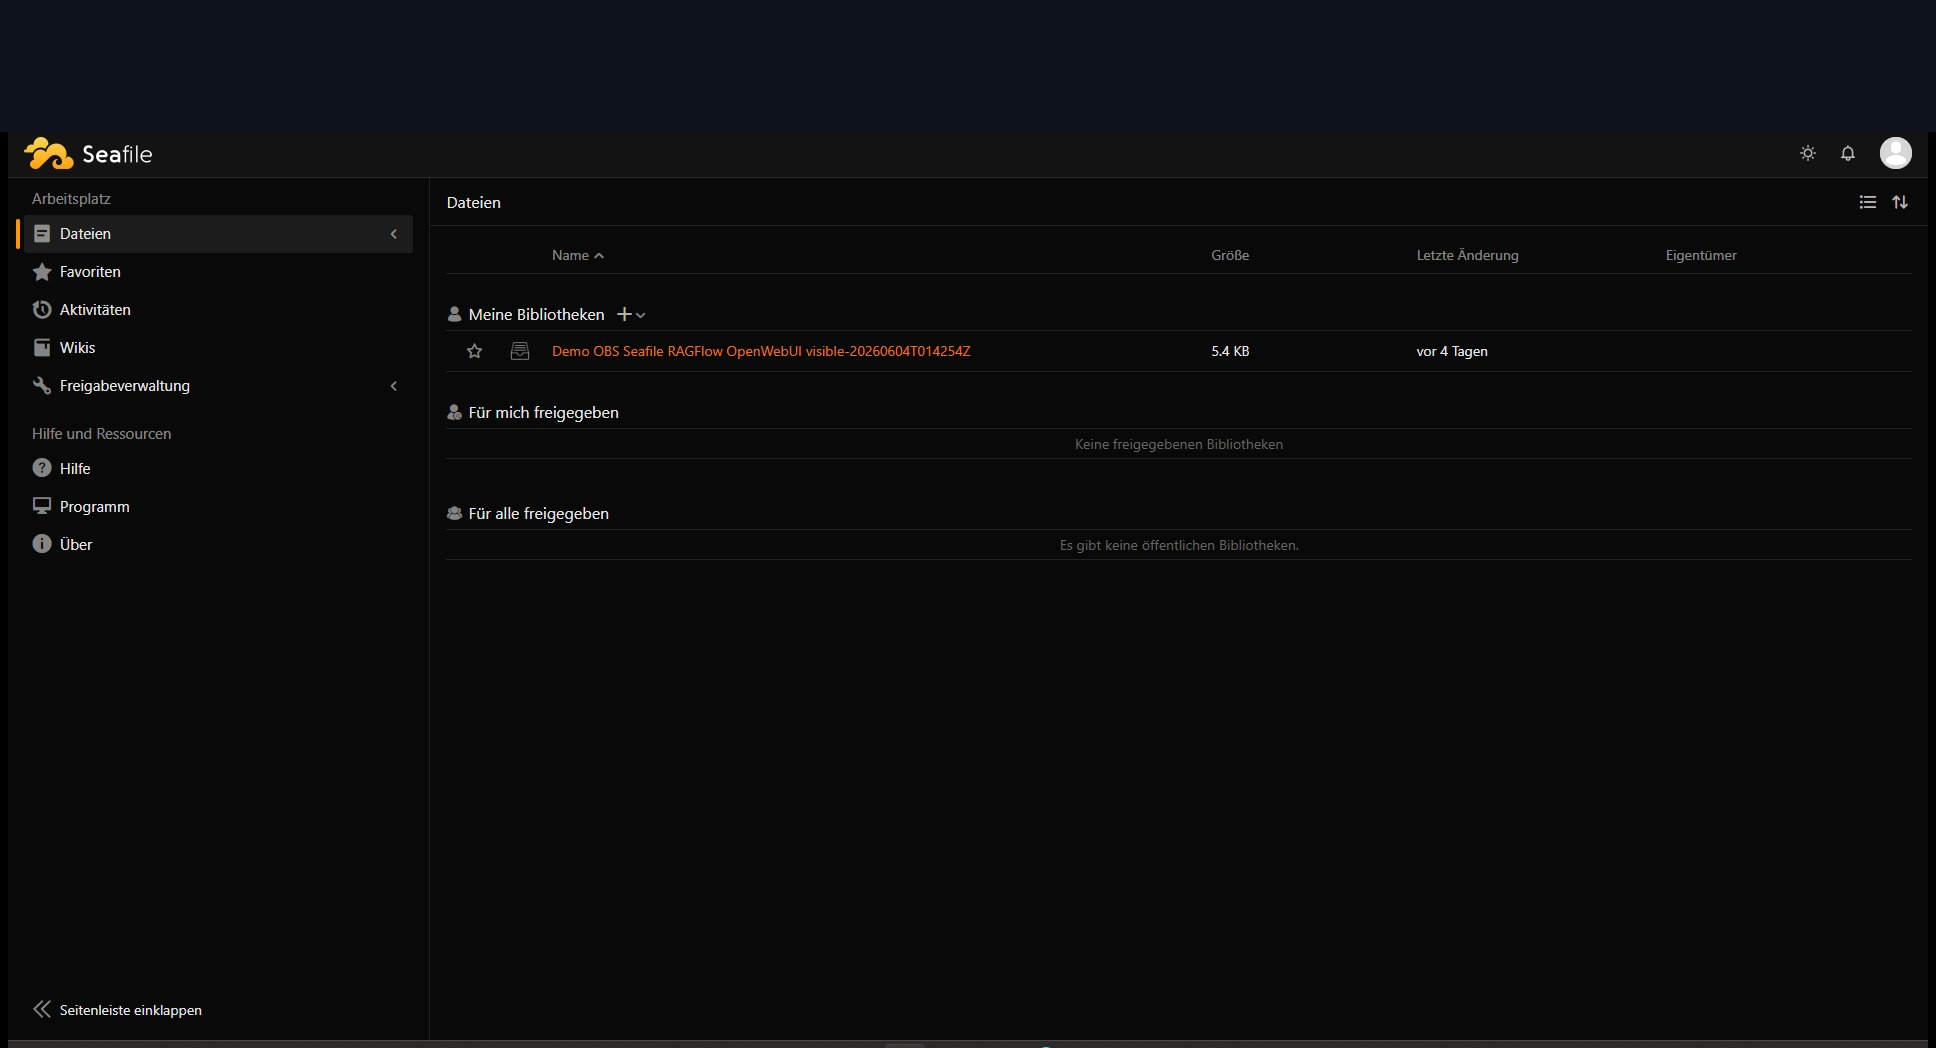
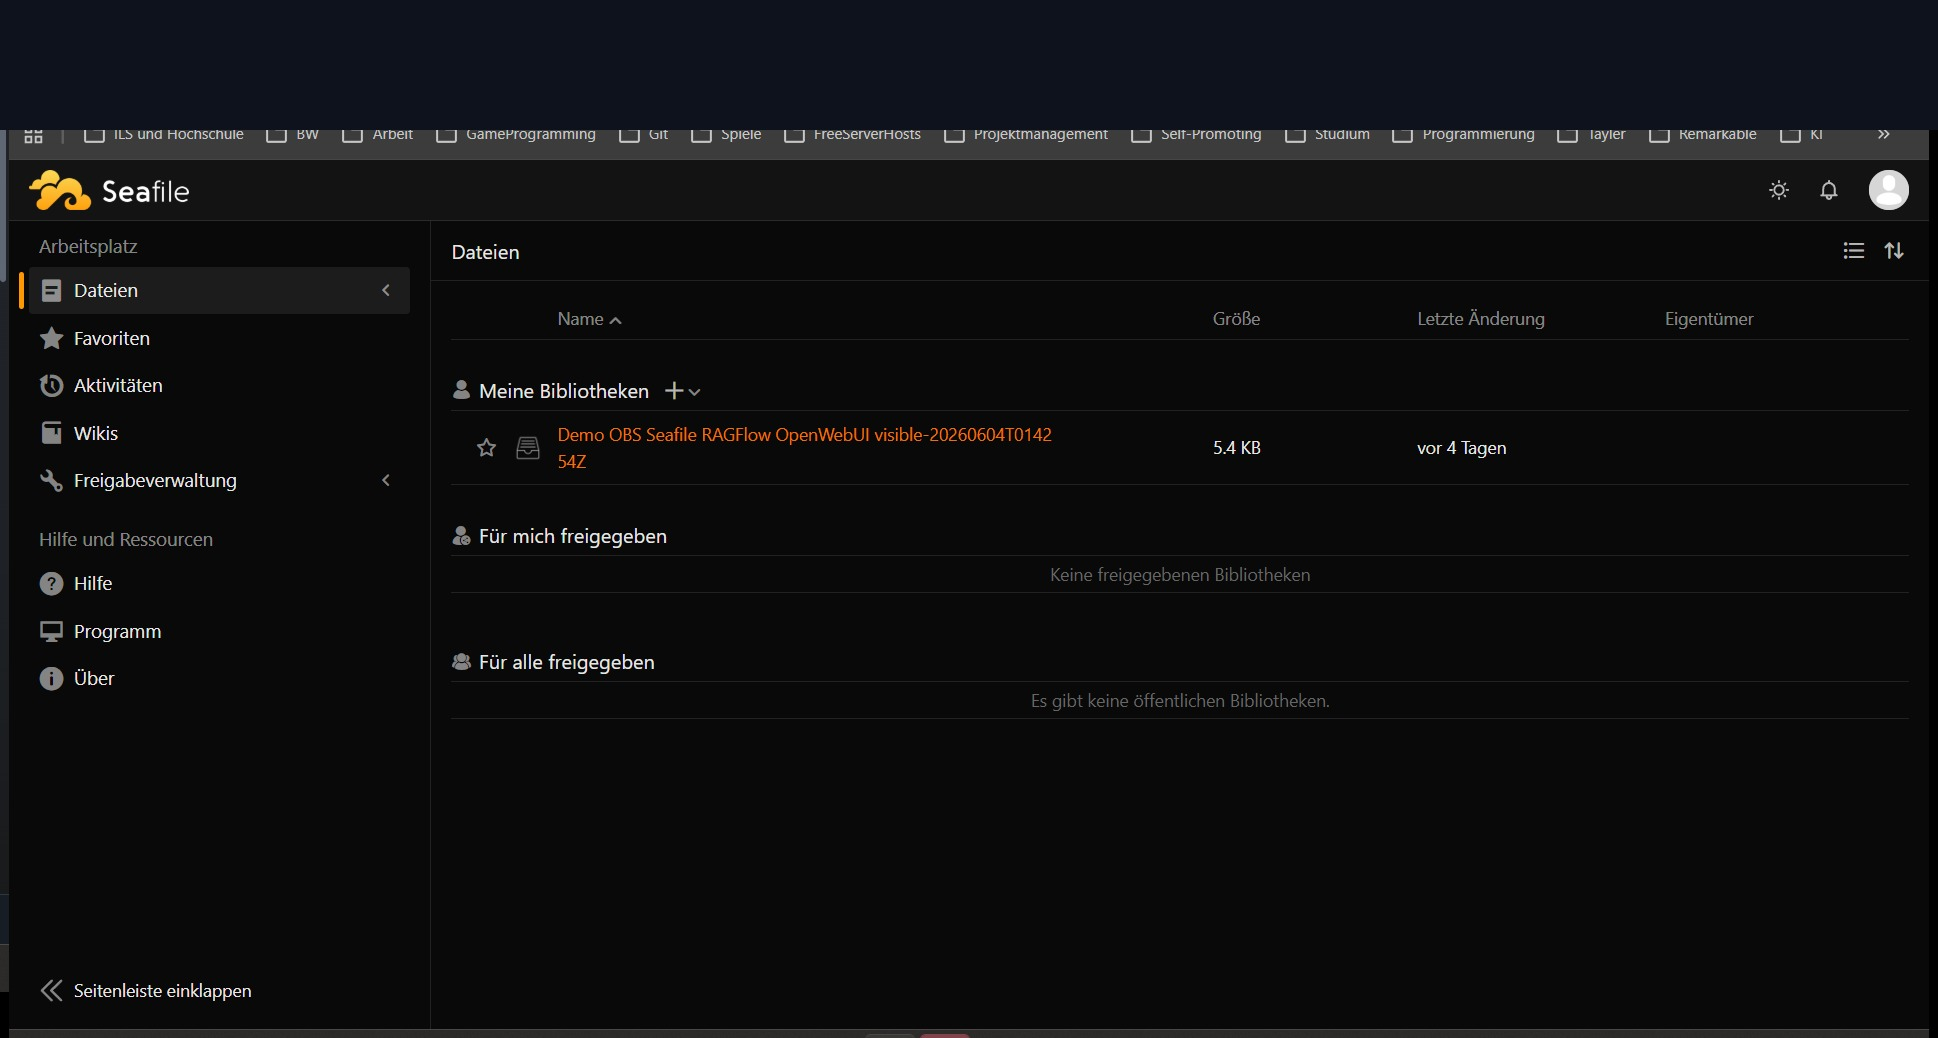
Update real Chrome demo with preview and original checks

diff --git a/scripts/record_real_chrome_demo.py b/scripts/record_real_chrome_demo.py
@@ -152,6 +152,7 @@ class Scene:
     wait_after_action: float = 2.5
     click_input: bool = False
     prompt: str | None = None
+    dismiss_chrome_popups: bool = False
     highlight: tuple[float, float, float, float] | None = None
     pointer: tuple[float, float] | None = None
 
@@ -372,6 +373,38 @@ def activate_and_maximize(window: WindowInfo) -> WindowInfo:
     return refreshed
 
 
+def foreground_hwnd() -> int:
+    ensure_windows()
+    return int(USER32.GetForegroundWindow())
+
+
+def safe_action_name(value: str) -> str:
+    cleaned = "".join(char if char.isalnum() else "-" for char in value.lower())
+    return "-".join(part for part in cleaned.split("-") if part)[:72] or "ui-action"
+
+
+def save_pre_action_screenshot(window: WindowInfo, safety_dir: Path, action: str) -> Path:
+    safety_dir.mkdir(parents=True, exist_ok=True)
+    stamp = datetime.now().strftime("%Y%m%dT%H%M%S%f")
+    path = safety_dir / f"{stamp}-{safe_action_name(action)}.png"
+    ImageGrab.grab(all_screens=True).save(path)
+    foreground = foreground_hwnd()
+    if foreground != window.hwnd:
+        raise RuntimeError(
+            "UI-Aktion abgebrochen: Chrome ist nicht im Vordergrund. "
+            f"Erwartet hwnd={window.hwnd}, gefunden hwnd={foreground}. "
+            f"Sicherheits-Screenshot: {path}"
+        )
+    return path
+
+
+def prepare_chrome_action(window: WindowInfo, safety_dir: Path | None, action: str) -> None:
+    USER32.SetForegroundWindow(window.hwnd)
+    time.sleep(0.25)
+    if safety_dir is not None:
+        save_pre_action_screenshot(window, safety_dir, action)
+
+
 def send_input(inputs: Iterable[INPUT]) -> None:
     ensure_windows()
     input_list = list(inputs)
@@ -418,7 +451,14 @@ def type_text(text: str, delay: float = 0.001) -> None:
             time.sleep(delay)
 
 
-def click_window(window: WindowInfo, x: int, y: int) -> None:
+def click_window(
+    window: WindowInfo,
+    x: int,
+    y: int,
+    safety_dir: Path | None = None,
+    action: str = "click",
+) -> None:
+    prepare_chrome_action(window, safety_dir, action)
     screen_x = window.left + x
     screen_y = window.top + y
     USER32.SetCursorPos(screen_x, screen_y)
@@ -442,21 +482,38 @@ def click_window(window: WindowInfo, x: int, y: int) -> None:
     time.sleep(0.4)
 
 
-def navigate(window: WindowInfo, url: str) -> None:
-    USER32.SetForegroundWindow(window.hwnd)
-    time.sleep(0.15)
+def navigate(window: WindowInfo, url: str, safety_dir: Path | None = None) -> None:
+    prepare_chrome_action(window, safety_dir, f"navigate {url}")
     hotkey(VK_CONTROL, VK_L)
     type_text(url)
     press_vk(VK_RETURN)
 
 
-def run_bookmarklet(window: WindowInfo, javascript_body: str) -> None:
+def run_bookmarklet(
+    window: WindowInfo,
+    javascript_body: str,
+    safety_dir: Path | None = None,
+    action: str = "bookmarklet",
+) -> None:
     script = "javascript:" + javascript_body
-    USER32.SetForegroundWindow(window.hwnd)
-    time.sleep(0.15)
+    prepare_chrome_action(window, safety_dir, action)
     hotkey(VK_CONTROL, VK_L)
     type_text(script)
     press_vk(VK_RETURN)
+
+
+def dismiss_chrome_popups(
+    window: WindowInfo,
+    safety_dir: Path | None = None,
+    action: str = "dismiss chrome popup",
+) -> None:
+    # Chrome UI popups such as Translate are outside the page DOM; Escape closes
+    # them without touching the real application page state.
+    prepare_chrome_action(window, safety_dir, action)
+    press_vk(VK_ESCAPE)
+    time.sleep(0.2)
+    press_vk(VK_ESCAPE)
+    time.sleep(0.3)
 
 
 def capture_chrome(window: WindowInfo, target_size: tuple[int, int]) -> Image.Image:
@@ -641,6 +698,39 @@ def openwebui_prompt_js(prompt: str) -> str:
         "))||buttons.at(-1);"
         "send?.click();"
         "},600);"
+        "})()"
+    )
+
+
+def open_openwebui_preview_js() -> str:
+    return (
+        "(()=>{"
+        "const visible=(el)=>!!(el.offsetWidth||el.offsetHeight||el.getClientRects().length);"
+        "const links=[...document.querySelectorAll('a[href]')].filter(visible);"
+        "const text=(el)=>(`${el.textContent||''} ${el.getAttribute('aria-label')||''} "
+        "${el.title||''}`).trim();"
+        "const preview=links.reverse().find((link)=>"
+        "/preview|vorschau/i.test(text(link))||"
+        "/\\/api\\/openwebui\\/sources\\/preview/i.test(link.href));"
+        "if(!preview){document.title='OpenWebUI preview link not found';return;}"
+        "location.href=preview.href;"
+        "})()"
+    )
+
+
+def open_preview_original_js() -> str:
+    return (
+        "(()=>{"
+        "const visible=(el)=>!!(el.offsetWidth||el.offsetHeight||el.getClientRects().length);"
+        "const links=[...document.querySelectorAll('a[href]')].filter(visible);"
+        "const text=(el)=>(`${el.textContent||''} ${el.getAttribute('aria-label')||''} "
+        "${el.title||''}`).trim();"
+        "const original=links.reverse().find((link)=>"
+        "/original|ursprung|datei öffnen|open original/i.test(text(link))||"
+        "(/seafile\\.top\\.secret/i.test(link.href)&&"
+        "!/\\/api\\/openwebui\\/sources\\/preview/i.test(link.href)));"
+        "if(!original){document.title='Seafile original link not found';return;}"
+        "location.href=original.href;"
         "})()"
     )
 
@@ -902,6 +992,7 @@ def scenes() -> list[Scene]:
             name="Kapitel 9: RAGFlow-Ergebnis",
             url="https://rag.top.secret/",
             duration=14,
+            dismiss_chrome_popups=True,
             caption=(
                 "RAGFlow zeigt das automatisch angelegte Dataset und den "
                 "automatisch angelegten Chat nach dem Connector-Lauf."
@@ -916,6 +1007,7 @@ def scenes() -> list[Scene]:
                 "items.find((el)=>(el.textContent||'').trim()==='Chat')?.click();})()"
             ),
             duration=10,
+            dismiss_chrome_popups=True,
             caption=(
                 "RAGFlow-Chat-Kontrolle: Der Chat ist Ergebnis des "
                 "Connector-Laufs und kein manueller Benutzerschritt."
@@ -948,11 +1040,35 @@ def scenes() -> list[Scene]:
             pointer=(0.30, 0.56),
         ),
         Scene(
-            name="Kapitel 13: Abschlusskontrolle",
+            name="Kapitel 13: Connector-Preview",
+            js=open_openwebui_preview_js(),
+            duration=14,
+            wait_after_action=2.5,
+            caption=(
+                "Die Connector-Preview öffnet den Treffer aus der OpenWebUI-"
+                "Antwort und zeigt den synchronisierten Inhalt im Viewer."
+            ),
+            highlight=(0.18, 0.18, 0.86, 0.86),
+            pointer=(0.76, 0.18),
+        ),
+        Scene(
+            name="Kapitel 14: Original in Seafile",
+            js=open_preview_original_js(),
+            duration=14,
+            wait_after_action=2.5,
+            caption=(
+                "Von der Preview geht es direkt zur Originaldatei in Seafile; "
+                "Seafile bleibt die Quelle der Wahrheit."
+            ),
+            highlight=(0.10, 0.18, 0.88, 0.90),
+            pointer=(0.72, 0.20),
+        ),
+        Scene(
+            name="Kapitel 15: Abschlusskontrolle",
             url=dashboard,
             js="(()=>{document.querySelector('[data-tab=\"openwebui\"]')?.click();})()",
             duration=8,
-            wait_after_action=2.0,
+            wait_after_action=7.0,
             caption=(
                 "Endzustand: Dashboard, RAGFlow und OpenWebUI zeigen den "
                 "automatisch erzeugten und nutzbaren Workflow."
@@ -971,6 +1087,7 @@ def record(args: argparse.Namespace) -> dict[str, object]:
     timestamp = datetime.now().strftime("%Y%m%dT%H%M%S")
     run_dir = repo_root / "output" / "demo-recording" / f"real-chrome-{timestamp}"
     run_dir.mkdir(parents=True, exist_ok=True)
+    safety_dir = run_dir / "safety"
     docs_demo = repo_root / "docs" / "assets" / "demo"
     artifacts = repo_root / "artifacts"
     docs_demo.mkdir(parents=True, exist_ok=True)
@@ -1046,21 +1163,38 @@ def record(args: argparse.Namespace) -> dict[str, object]:
             if not passive_mode:
                 chrome = activate_and_maximize(find_chrome_window())
                 if scene.url:
-                    navigate(chrome, scene.url)
+                    navigate(chrome, scene.url, safety_dir=safety_dir)
                     time.sleep(scene.wait_after_action)
                     elapsed += scene.wait_after_action
                 if scene.js:
-                    run_bookmarklet(chrome, scene.js)
+                    run_bookmarklet(
+                        chrome,
+                        scene.js,
+                        safety_dir=safety_dir,
+                        action=scene.name,
+                    )
                     time.sleep(scene.wait_after_action)
                     elapsed += scene.wait_after_action
                 if scene.click_input and scene.prompt:
                     # OpenWebUI prompt box is centered in the real page. The click is
                     # proportional to the Chrome window to remain stable across DPI.
-                    click_window(chrome, int(size[0] * 0.43), int(size[1] * 0.56))
+                    click_window(
+                        chrome,
+                        int(size[0] * 0.43),
+                        int(size[1] * 0.56),
+                        safety_dir=safety_dir,
+                        action=scene.name,
+                    )
                     type_text(scene.prompt)
                     press_vk(VK_RETURN)
                     time.sleep(scene.wait_after_action)
                     elapsed += scene.wait_after_action
+                if scene.dismiss_chrome_popups:
+                    dismiss_chrome_popups(
+                        chrome,
+                        safety_dir=safety_dir,
+                        action=f"{scene.name} chrome popup dismiss",
+                    )
 
             elapsed, poster_saved = write_scene_capture(
                 chrome=chrome,

diff --git a/tests/unit/demo/test_record_real_chrome_demo.py b/tests/unit/demo/test_record_real_chrome_demo.py
@@ -87,3 +87,47 @@ class RecordRealChromeDemoCliTests(unittest.TestCase):
             args = module.parse_args()
 
         self.assertEqual(args.overlay_mode, "none")
+
+    def test_final_scenes_show_preview_and_original(self) -> None:
+        spec = importlib.util.spec_from_file_location("record_real_chrome_demo", SCRIPT)
+        self.assertIsNotNone(spec)
+        self.assertIsNotNone(spec.loader)
+        module = importlib.util.module_from_spec(spec)
+        sys.modules[spec.name] = module
+        spec.loader.exec_module(module)
+
+        scene_names = [scene.name for scene in module.scenes()]
+        self.assertIn("Kapitel 13: Connector-Preview", scene_names)
+        self.assertIn("Kapitel 14: Original in Seafile", scene_names)
+        self.assertIn("Kapitel 15: Abschlusskontrolle", scene_names)
+
+        preview_scene = next(
+            scene for scene in module.scenes() if "Connector-Preview" in scene.name
+        )
+        original_scene = next(
+            scene for scene in module.scenes() if "Original in Seafile" in scene.name
+        )
+        final_scene = next(
+            scene for scene in module.scenes() if "Abschlusskontrolle" in scene.name
+        )
+
+        self.assertIn("sources\\/preview", preview_scene.js)
+        self.assertIn("seafile\\.top\\.secret", original_scene.js)
+        self.assertGreaterEqual(final_scene.wait_after_action, 7.0)
+
+    def test_only_ragflow_scenes_dismiss_chrome_popups(self) -> None:
+        spec = importlib.util.spec_from_file_location("record_real_chrome_demo", SCRIPT)
+        self.assertIsNotNone(spec)
+        self.assertIsNotNone(spec.loader)
+        module = importlib.util.module_from_spec(spec)
+        sys.modules[spec.name] = module
+        spec.loader.exec_module(module)
+
+        dismissing = [
+            scene.name for scene in module.scenes() if scene.dismiss_chrome_popups
+        ]
+
+        self.assertEqual(
+            dismissing,
+            ["Kapitel 9: RAGFlow-Ergebnis", "Kapitel 10: RAGFlow-Chat"],
+        )